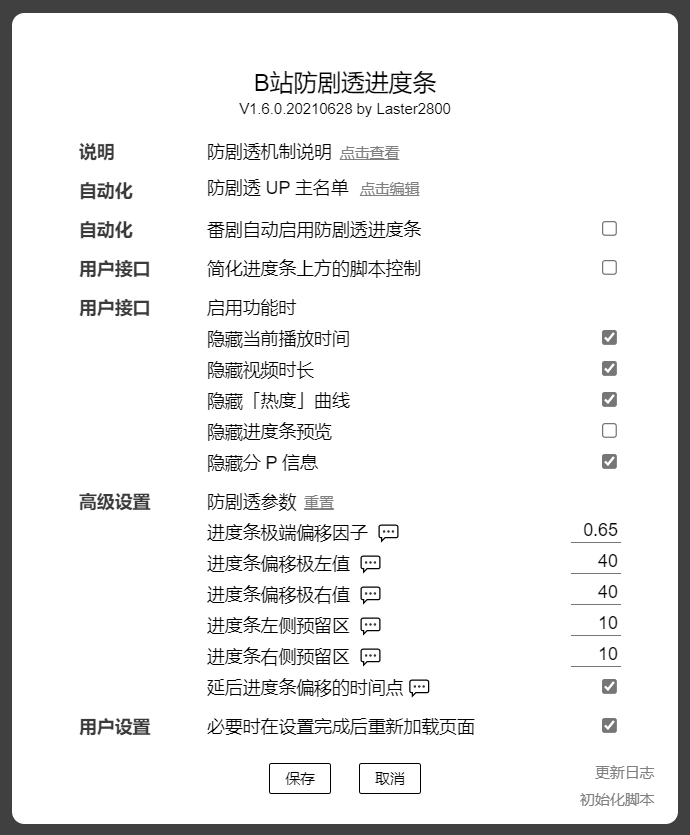
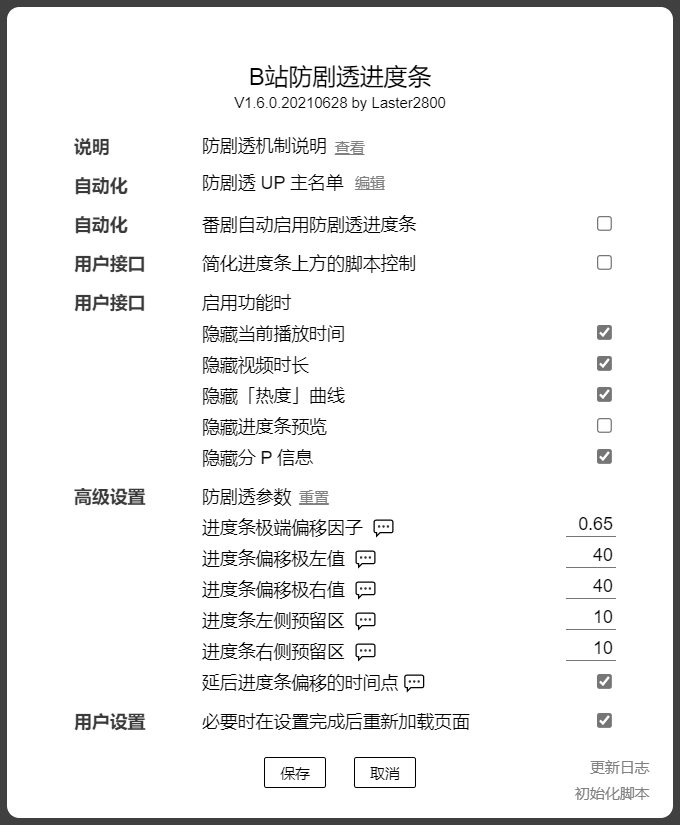
B站防剧透进度条 1.6.0d.20210628
* 防剧透 UP 主名单：修复空名单无法保存的问题。

diff --git a/script/BilibiliNoSpoilProgressBar/BilibiliNoSpoilProgressBar.js b/script/BilibiliNoSpoilProgressBar/BilibiliNoSpoilProgressBar.js
@@ -1,6 +1,6 @@
 // ==UserScript==
 // @name            B站防剧透进度条
-// @version         1.6.0c.20210628
+// @version         1.6.0d.20210628
 // @namespace       laster2800
 // @author          Laster2800
 // @description     看比赛、看番总是被进度条剧透？装上这个脚本再也不用担心这些问题了
@@ -287,7 +287,7 @@
         ...gm.data,
         uploaderList: updateData => {
           const _ = gm.data._
-          if (updateData) {
+          if (typeof updateData == 'string') {
             GM_setValue('uploaderList', updateData)
             _.uploaderListSet = null
             return updateData
@@ -448,7 +448,7 @@
                     <td>
                       <div>
                         <span>防剧透机制说明</span>
-                        <a class="gm-hint-option" title="查看脚本防剧透机制的实现原理。" href="${gm.url.gm_readme}#防剧透机制说明" target="_blank" style="color:var(--hint-text-color)">点击查看</a>
+                        <a class="gm-hint-option" title="查看脚本防剧透机制的实现原理。" href="${gm.url.gm_readme}#防剧透机制说明" target="_blank" style="color:var(--hint-text-color)">查看</a>
                       </div>
                     </td>
                   </tr>
@@ -457,7 +457,7 @@
                     <td><div>自动化</div></td>
                     <td>
                       <span>防剧透 UP 主名单</span>
-                      <span id="gm-uploaderList" class="gm-hint-option">点击编辑</span>
+                      <span id="gm-uploaderList" class="gm-hint-option">编辑</span>
                     </td>
                   </tr>
 

diff --git a/script/BilibiliNoSpoilProgressBar/changelog.md b/script/BilibiliNoSpoilProgressBar/changelog.md
@@ -5,8 +5,9 @@
 ## V1.6
 
 1. 脚本：优化脚本菜单运行流程。
-2. 初始化脚本：不再重置「防剧透 UP 主名单」。
-3. UI：优化文本。
+2. 防剧透 UP 主名单：修复空名单无法保存的问题。
+3. 初始化脚本：不再重置「防剧透 UP 主名单」。
+4. UI：优化文本。
 
 ## V1.5
 
